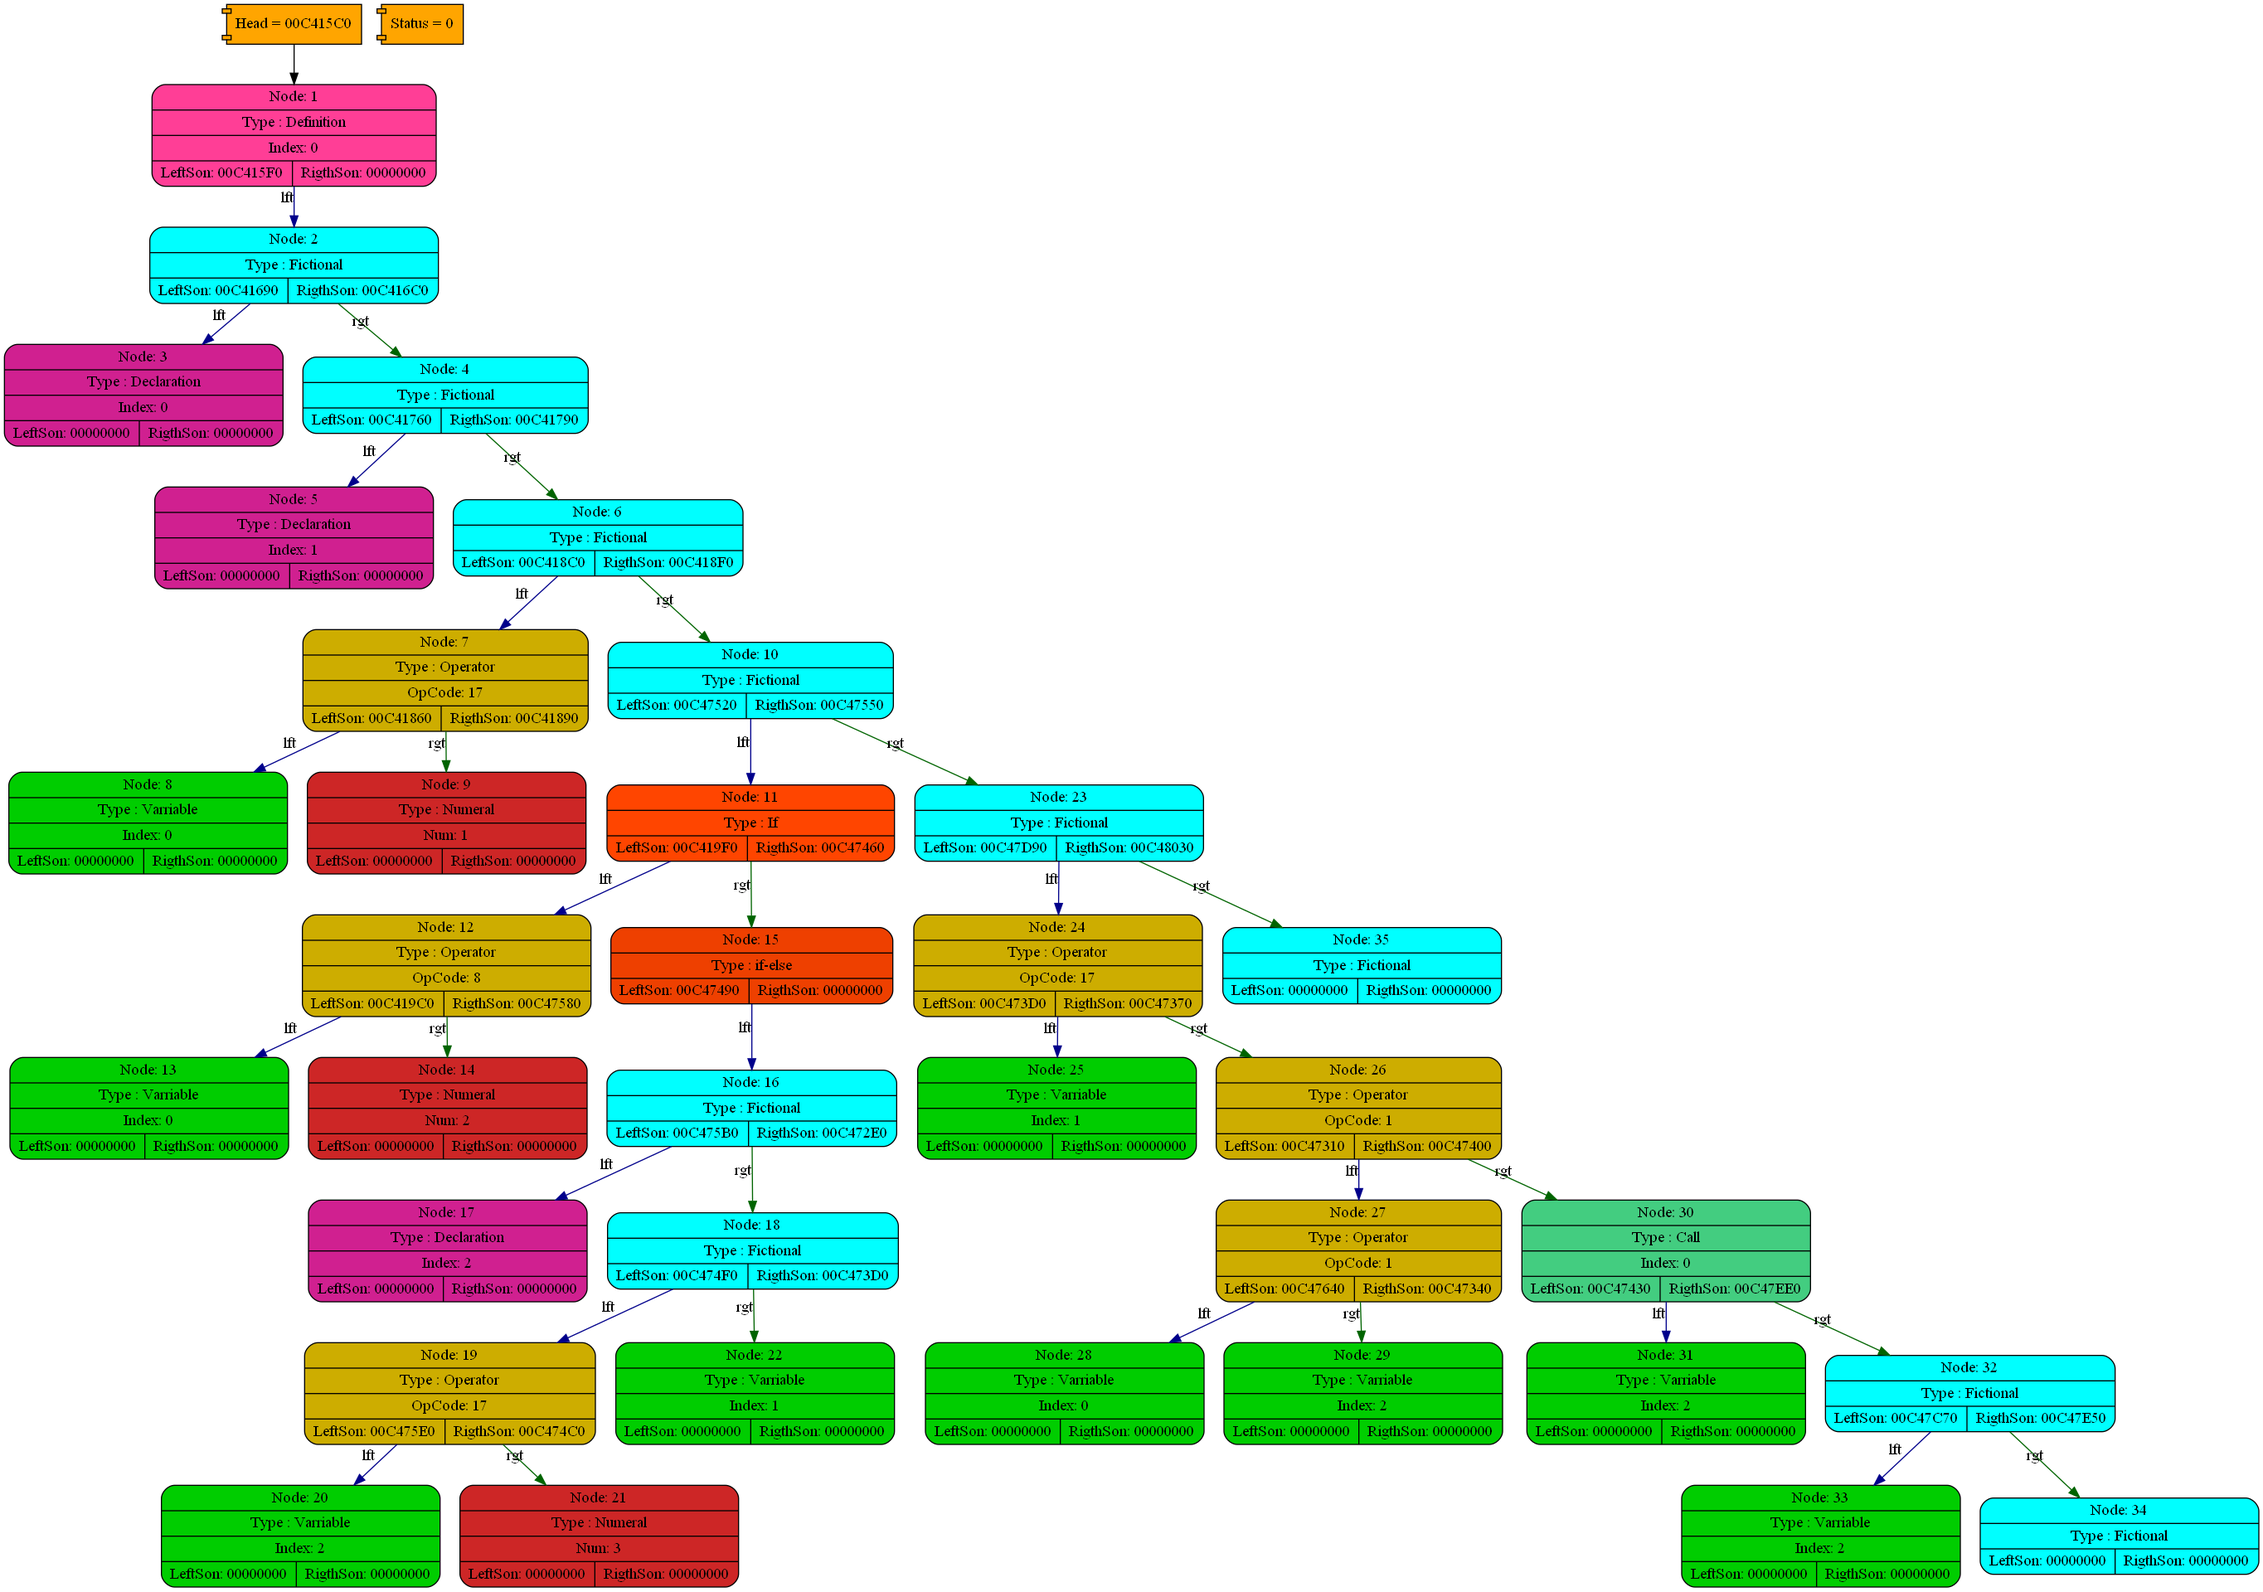
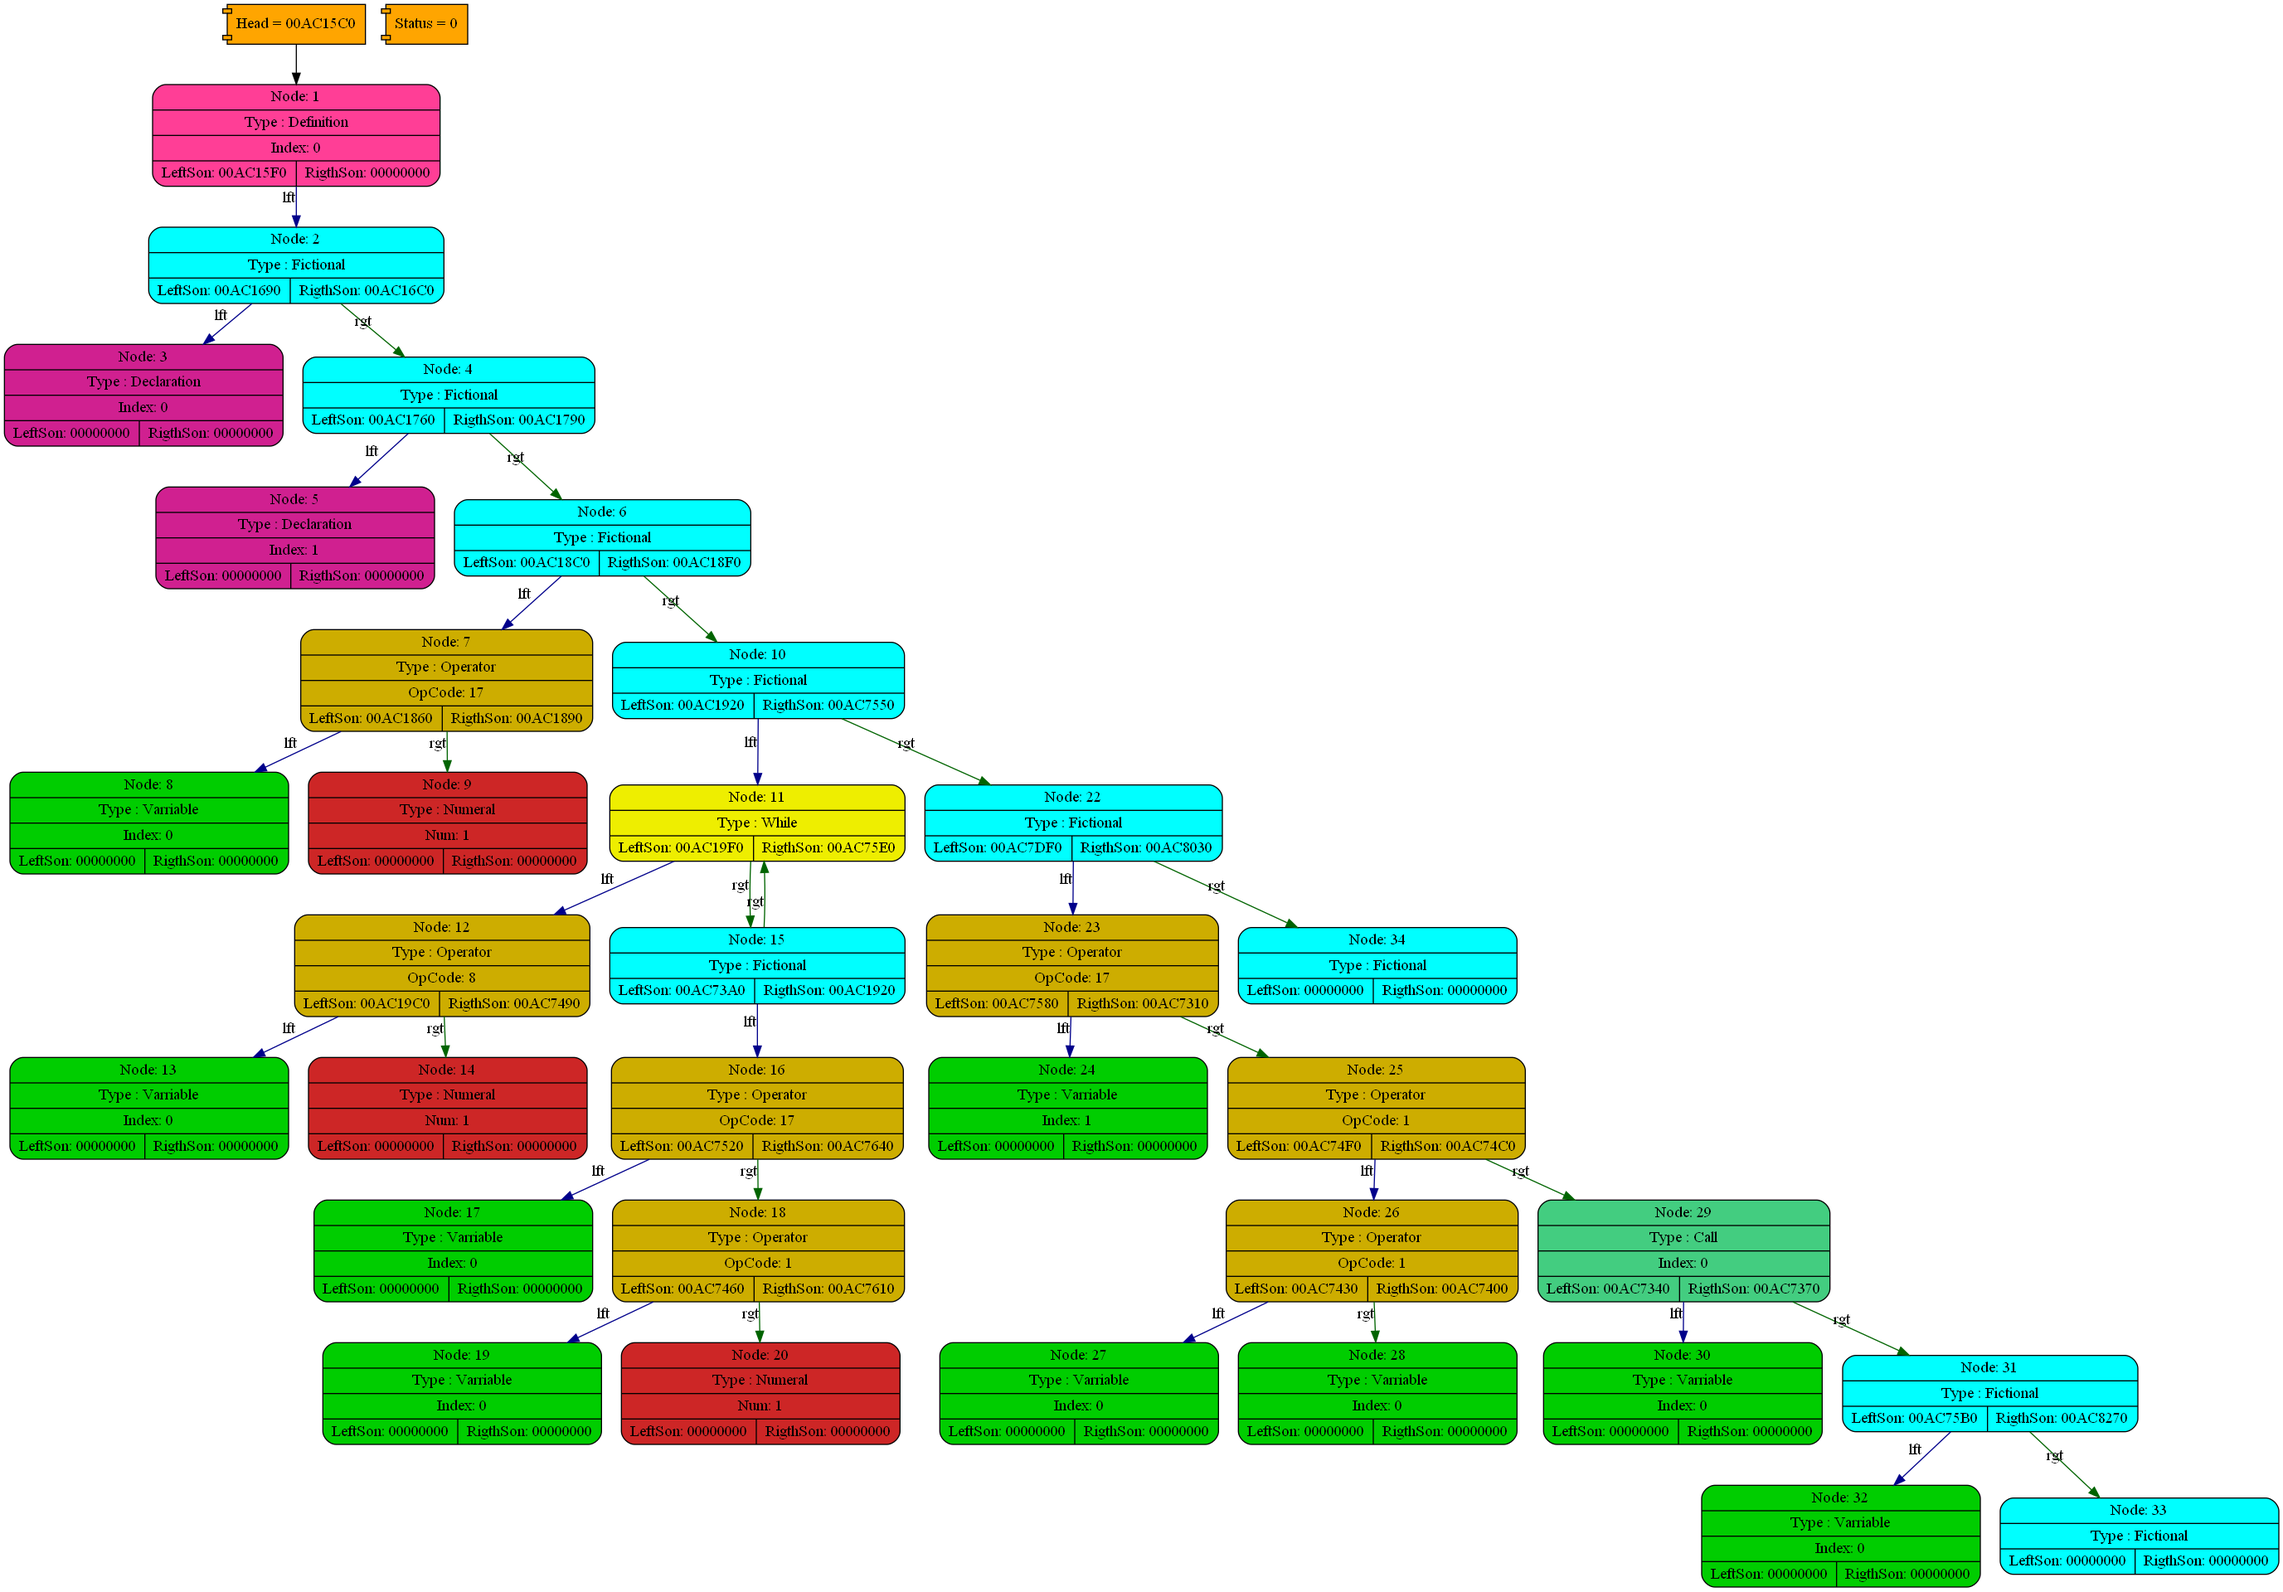
While fixed

diff --git a/calc.cpp b/calc.cpp
@@ -33,7 +33,7 @@ static Type_t getCommands (Type_t curNode, char **buffer, NameList *varList, Nam
 
 static Type_t getFunctionParams(char **buffer, NameList *varList, NameList *funcList, size_t *err);
 
-static Type_t getSqrt(char **buffer, NameList *varList, NameList *funcList, size_t *err)
+static Type_t getSqrt(char **buffer, NameList *varList, NameList *funcList, size_t *err);
 
 static Type_t getCos(char **buffer, NameList *varList, NameList *funcList, size_t *err);
 
@@ -112,7 +112,6 @@ Type_t getDefinition(char **buffer, NameList *varList, NameList *funcList, size_
         NEXT_SYM;
 
         if (curNode == body) ERR_EXE(calcGetDefenition_Error);
-        free(curNode);
 
         return node;
     }
@@ -245,7 +244,6 @@ Type_t getDeclaration(char **buffer, NameList *varList, NameList *funcList, size
         NEXT_SYM;
 
         if (curNode == node) ERR_EXE(calcGetDeclaration_Error);
-        free(curNode);
 
         return node;
     }
@@ -316,7 +314,6 @@ Type_t getCall(char **buffer, NameList *varList, NameList *funcList, size_t inde
     NEXT_SYM;
 
     if (curNode == node) ERR_EXE(calcGetCall_Error);
-    free(curNode);
 
     return node;
 }
@@ -476,23 +473,30 @@ Type_t getU(char **buffer, NameList *varList, NameList *funcList, size_t *err) {
     catchNullptr(funcList, POISON, *err |= calcNullCaught;);
     catchNullptr( buffer , POISON, *err |= calcNullCaught;);
 
-    if (!strncmp("cos(", CUR_STR, 4)) {
+    if (!strncmp("cos)", CUR_STR, 4)) {
         Type_t node = getCos(buffer, varList, funcList, err);
         if (node == nullptr || *err) ERR_EXE(calcGetU_Error);
 
         return node;
     }
 
-    if (!strncmp("sin(", CUR_STR, 4)) {
+    if (!strncmp("sin)", CUR_STR, 4)) {
         Type_t node = getSin(buffer, varList, funcList, err);
         if (node == nullptr || *err) ERR_EXE(calcGetU_Error);
         
         return node;
     }
 
-    if (!strncmp("ln(", CUR_STR, 3)) {
+    if (!strncmp("ln)", CUR_STR, 3)) {
         // fprintf(stderr, "Here\n");
         Type_t node = getLog(buffer, varList, funcList, err);
+        if (node == nullptr || *err) ERR_EXE(calcGetU_Error);
+        
+        return node;
+    }
+
+    if (!strncmp("sqrt)", CUR_STR, 5)) {
+        Type_t node = getSqrt(buffer, varList, funcList, err);
         if (node == nullptr || *err) ERR_EXE(calcGetU_Error);
         
         return node;
@@ -568,6 +572,7 @@ Type_t getV(char **buffer, NameList *varList, NameList *funcList, size_t *err, c
         newVar = getString(buffer, err);
         if (*err) ERR_EXE(calcGetV_Error);
     }
+    // fprintf(stderr, "%s\n", CUR_STR);
 
     if (CUR_SYM == ')') {
         size_t index = getInd(funcList, newVar, err);
@@ -580,7 +585,7 @@ Type_t getV(char **buffer, NameList *varList, NameList *funcList, size_t *err, c
     size_t varIndex = getInd(varList, newVar, err);
     if (*err) ERR_EXE(calcGetV_Error);
 
-    if (varIndex < 0 || varIndex > varList -> size) ERR_EXE(calcUndefinedVarriable);
+    if (varIndex < 0 || varIndex >= varList -> size) ERR_EXE(calcUndefinedVarriable);
     // {
     //     varIndex = nameListInsert(varList, newVar, err);
     //     if (*err) ERR_EXE(calcGetV_Error);
@@ -624,7 +629,7 @@ static Type_t getSqrt(char **buffer, NameList *varList, NameList *funcList, size
     Type_t node =      nullptr     ;
 
     *err |= newOpNode(&node, Sqrt);
-    if (arg == nullptr || CUR_SYM != ')') ERR_EXE(calcGetSqrtError);
+    if (arg == nullptr || CUR_SYM != '(') ERR_EXE(calcGetSqrtError);
 
     NEXT_SYM;
 
@@ -644,7 +649,7 @@ static Type_t getCos(char **buffer, NameList *varList, NameList *funcList, size_
     Type_t node =      nullptr     ;
 
     *err |= newOpNode(&node, Cos);
-    if (arg == nullptr || CUR_SYM != ')') ERR_EXE(calcGetCosError);
+    if (arg == nullptr || CUR_SYM != '(') ERR_EXE(calcGetCosError);
 
     NEXT_SYM;
 
@@ -664,7 +669,7 @@ static Type_t getSin(char **buffer, NameList *varList, NameList *funcList, size_
     Type_t node =      nullptr     ;
 
     *err |= newOpNode(&node, Sin);
-    if (arg == nullptr || CUR_SYM != ')') ERR_EXE(calcGetSinError);
+    if (arg == nullptr || CUR_SYM != '(') ERR_EXE(calcGetSinError);
 
     NEXT_SYM;
 
@@ -684,7 +689,7 @@ static Type_t getLog(char **buffer, NameList *varList, NameList *funcList, size_
     Type_t node =           nullptr         ;
 
     *err |= newOpNode(&node, Log);
-    if (arg == nullptr || CUR_SYM != ')') ERR_EXE(calcGetLogError);
+    if (arg == nullptr || CUR_SYM != '(') ERR_EXE(calcGetLogError);
 
     NEXT_SYM;
 
@@ -937,15 +942,15 @@ static size_t resize(NameList *list, size_t newSize) {
 // }
 
 static size_t getInd(NameList *varList, char *name, size_t *err) {
-    catchNullptr(varList, varList -> capacity, *err |= calcNullCaught;);
-    catchNullptr( name  , varList -> capacity, *err |= calcNullCaught;);
+    catchNullptr(varList, varList -> capacity + 1, *err |= calcNullCaught;);
+    catchNullptr( name  , varList -> capacity + 1, *err |= calcNullCaught;);
     
     for (size_t cur = 0; cur < varList -> size; cur++) {
         if (!stricmp(name, varList -> names[cur]))
             return cur;
     }
 
-    return varList -> capacity;
+    return varList -> capacity + 1;
 }
 
 static OperandType isBinOp(char **buffer, size_t *err) {

diff --git a/logger.cpp b/logger.cpp
@@ -43,22 +43,26 @@ const char* treeGraphVizDump(StandTree *tree, const char *fileName, size_t cmd) 
 
 
 void treePrintNodeGrVz(StandTreeNode *tree, size_t *cur, FILE *stream) {
-    if (tree == nullptr || cur == nullptr || stream == nullptr) return;
+    // fprintf(stderr, "%d", tree -> printID);
+    if (tree == nullptr || cur == nullptr || stream == nullptr || tree -> printID) return;
 
-    int nodeNum = *cur;
-
-    printNodeParams(tree, nodeNum, stream);
+    tree -> printID = *cur;
     
+    printNodeParams(tree, tree -> printID, stream);
+
     if (tree -> lft != nullptr) {
         (*cur)++;
-        fprintf(stream, "       node%zu -> node%zu[xlabel = \"lft\", color = \"darkblue\"];\n", nodeNum, *cur);
+        fprintf(stream, "       node%zu -> node%zu[xlabel = \"lft\", color = \"darkblue\"];\n",
+                tree -> printID, ((tree -> lft) -> printID)? (tree -> lft) -> printID: *cur);
         treePrintNodeGrVz(tree -> lft, cur, stream);
     }
     if (tree -> rgt != nullptr) {
         (*cur)++;
-        fprintf(stream, "       node%zu -> node%zu[xlabel = \"rgt\", color = \"darkgreen\"];\n", nodeNum, *cur);
+        fprintf(stream, "       node%zu -> node%zu[xlabel = \"rgt\", color = \"darkgreen\"];\n", 
+                tree -> printID, ((tree -> rgt) -> printID)? (tree -> rgt) -> printID: *cur);
         treePrintNodeGrVz(tree -> rgt, cur, stream);
     }
+
 }
 
 static void printNodeParams(StandTreeNode *node, size_t nodeNum, FILE* stream) {

diff --git a/headers/calc.h b/headers/calc.h
@@ -34,18 +34,19 @@ enum CalcErrors {
     calcGetNegError           = 1 << 14,
     calcGetRevError           = 1 << 15,
     calcBufferError           = 1 << 16,
-    calcGetCall_Error         = 1 << 17,
-    calcGetWhile_Error        = 1 << 18,
-    calcDevisionByZero        = 1 << 19,
-    calcGetReturn_Error       = 1 << 20,
-    calcGetString_Error       = 1 << 21,
-    calcUnexpectedSymbol      = 1 << 22,
-    calcAssignation_Error     = 1 << 23,
-    calcEndOfProgramError     = 1 << 24,
-    calcUndefinedVarriable    = 1 << 25,
-    calcGetDefenition_Error   = 1 << 26,
-    calcGetDeclaration_Error  = 1 << 27,
-    calcUnknownCommand_Error  = 1 << 28,
+    calcGetSqrtError          = 1 << 17,
+    calcGetCall_Error         = 1 << 18,
+    calcGetWhile_Error        = 1 << 19,
+    calcDevisionByZero        = 1 << 20,
+    calcGetReturn_Error       = 1 << 21,
+    calcGetString_Error       = 1 << 22,
+    calcUnexpectedSymbol      = 1 << 23,
+    calcAssignation_Error     = 1 << 24,
+    calcEndOfProgramError     = 1 << 25,
+    calcUndefinedVarriable    = 1 << 26,
+    calcGetDefenition_Error   = 1 << 27,
+    calcGetDeclaration_Error  = 1 << 28,
+    calcUnknownCommand_Error  = 1 << 29,
 };
 
 struct NameList {

diff --git a/headers/standTree/front_end.h b/headers/standTree/front_end.h
@@ -43,6 +43,8 @@ struct StandTreeNode {
 
     StandTreeNode *lft = nullptr;
     StandTreeNode *rgt = nullptr;
+
+    int printID = 0;
 };
 
 
